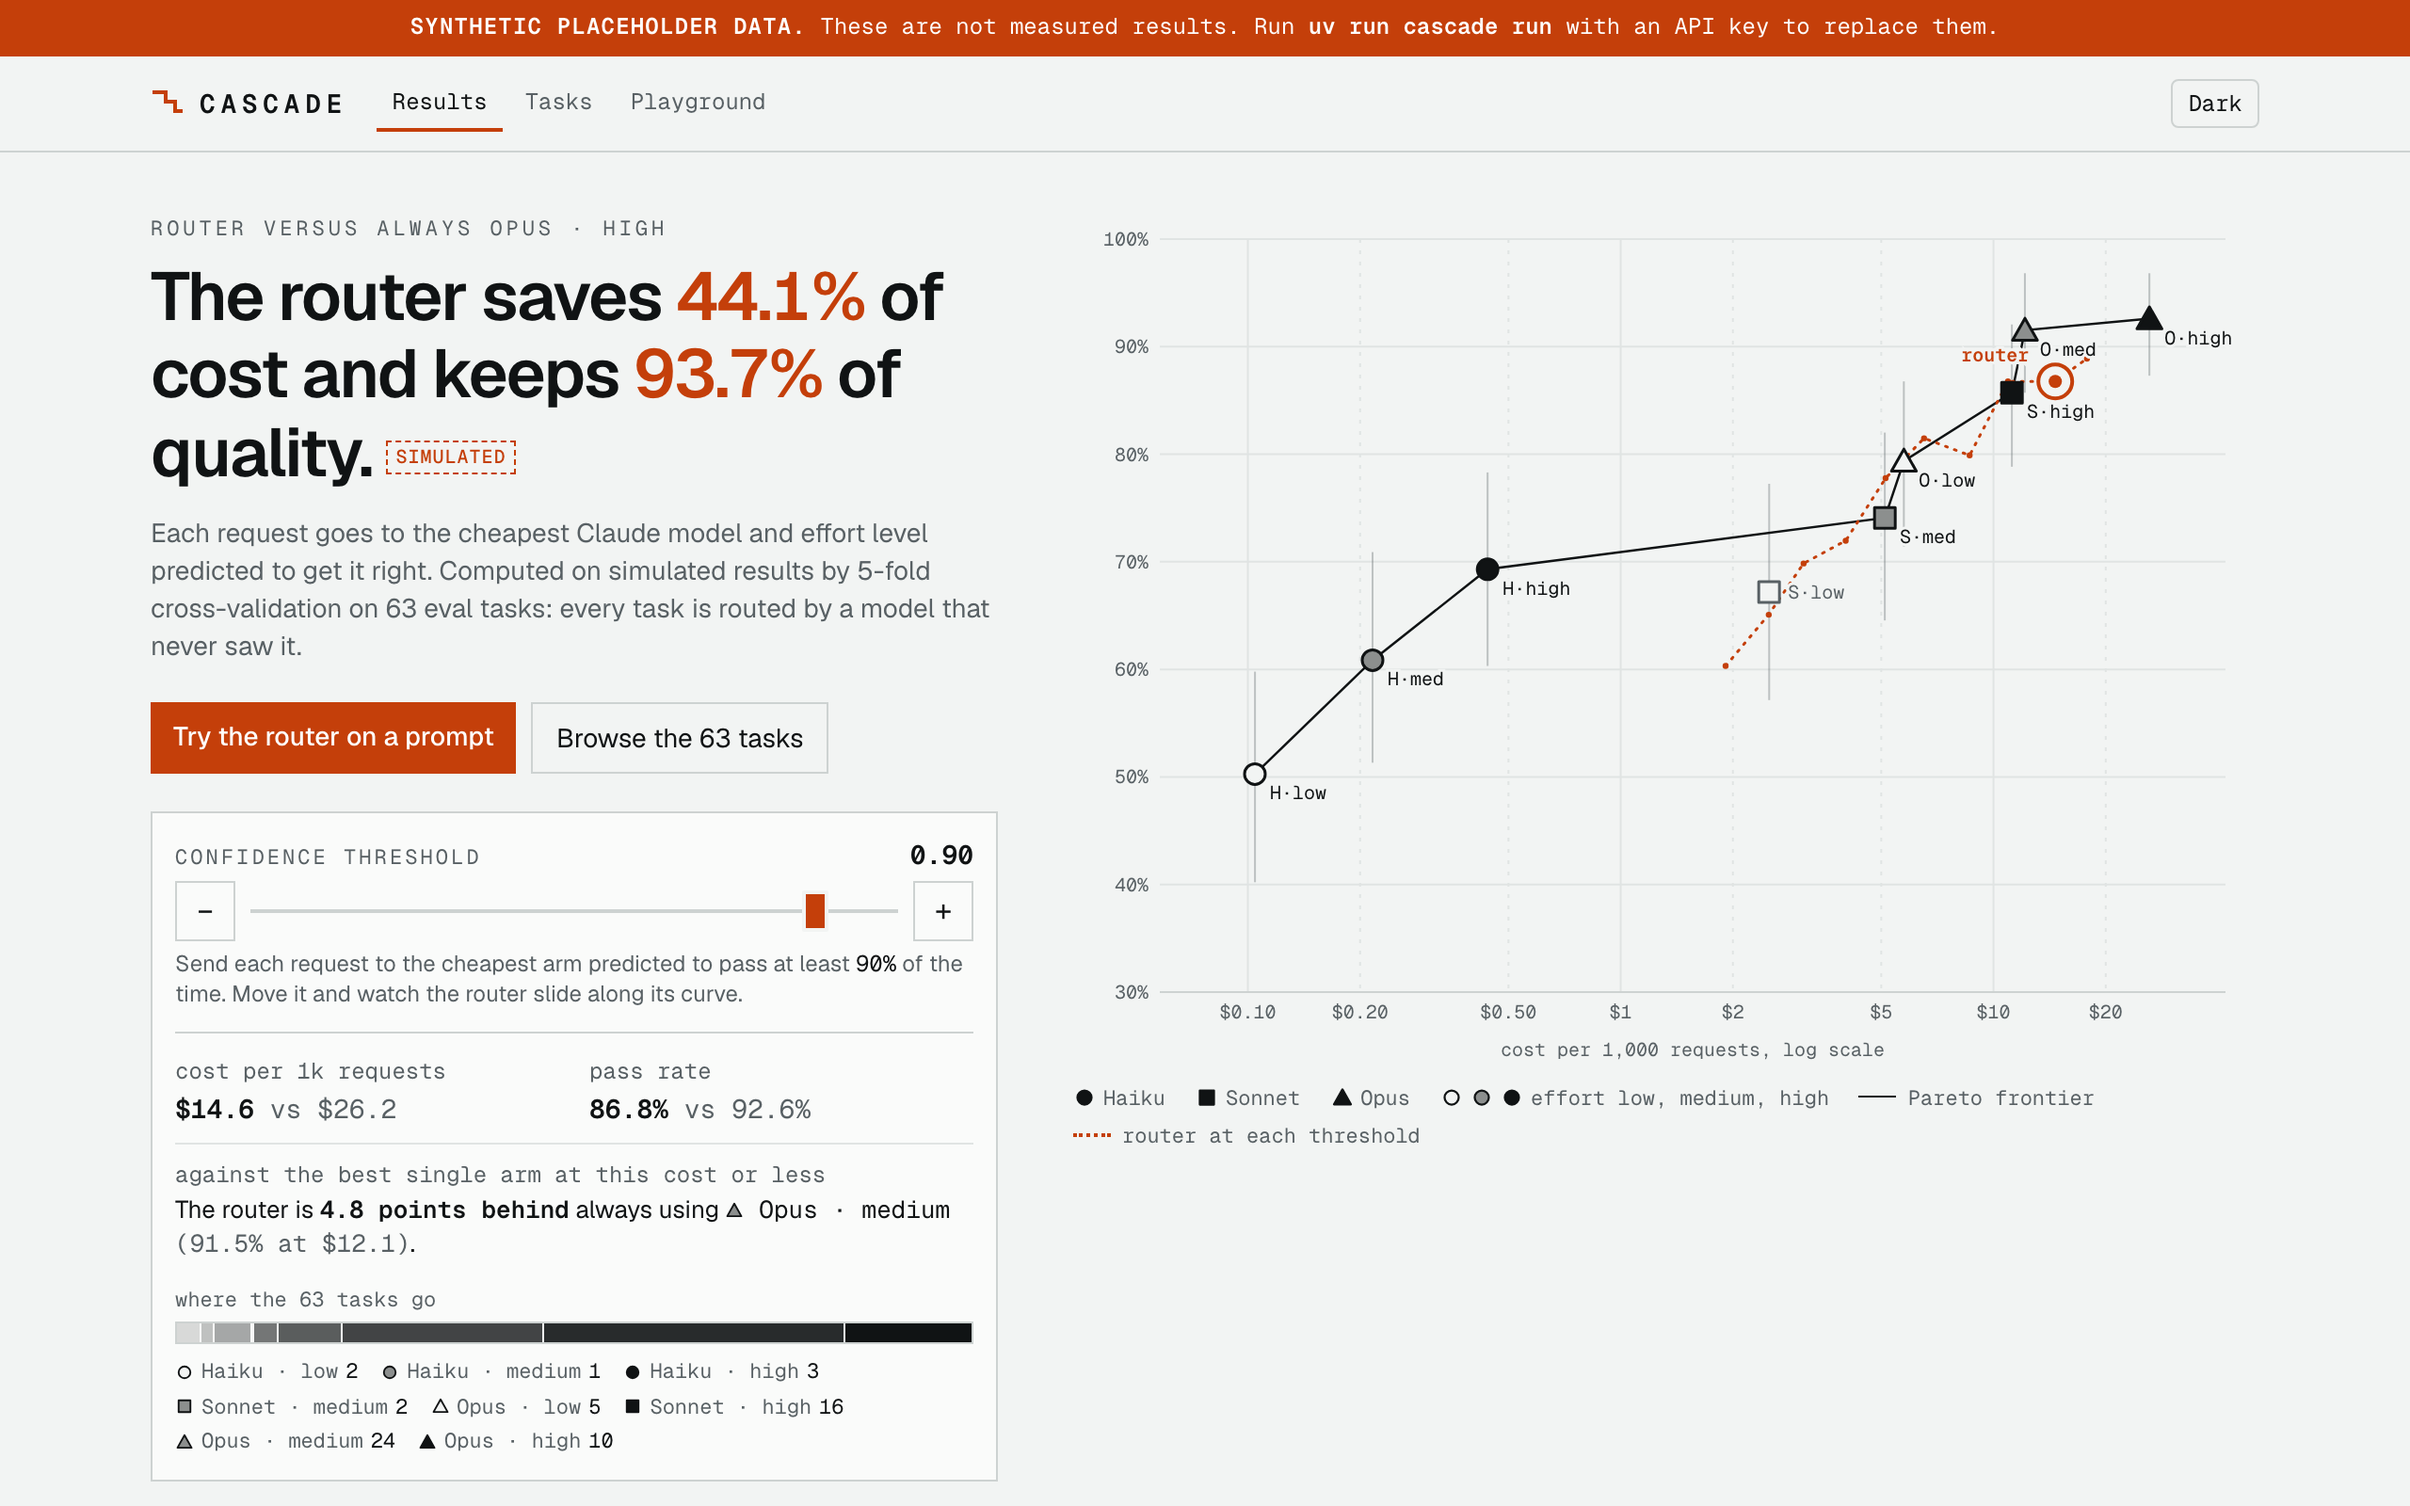
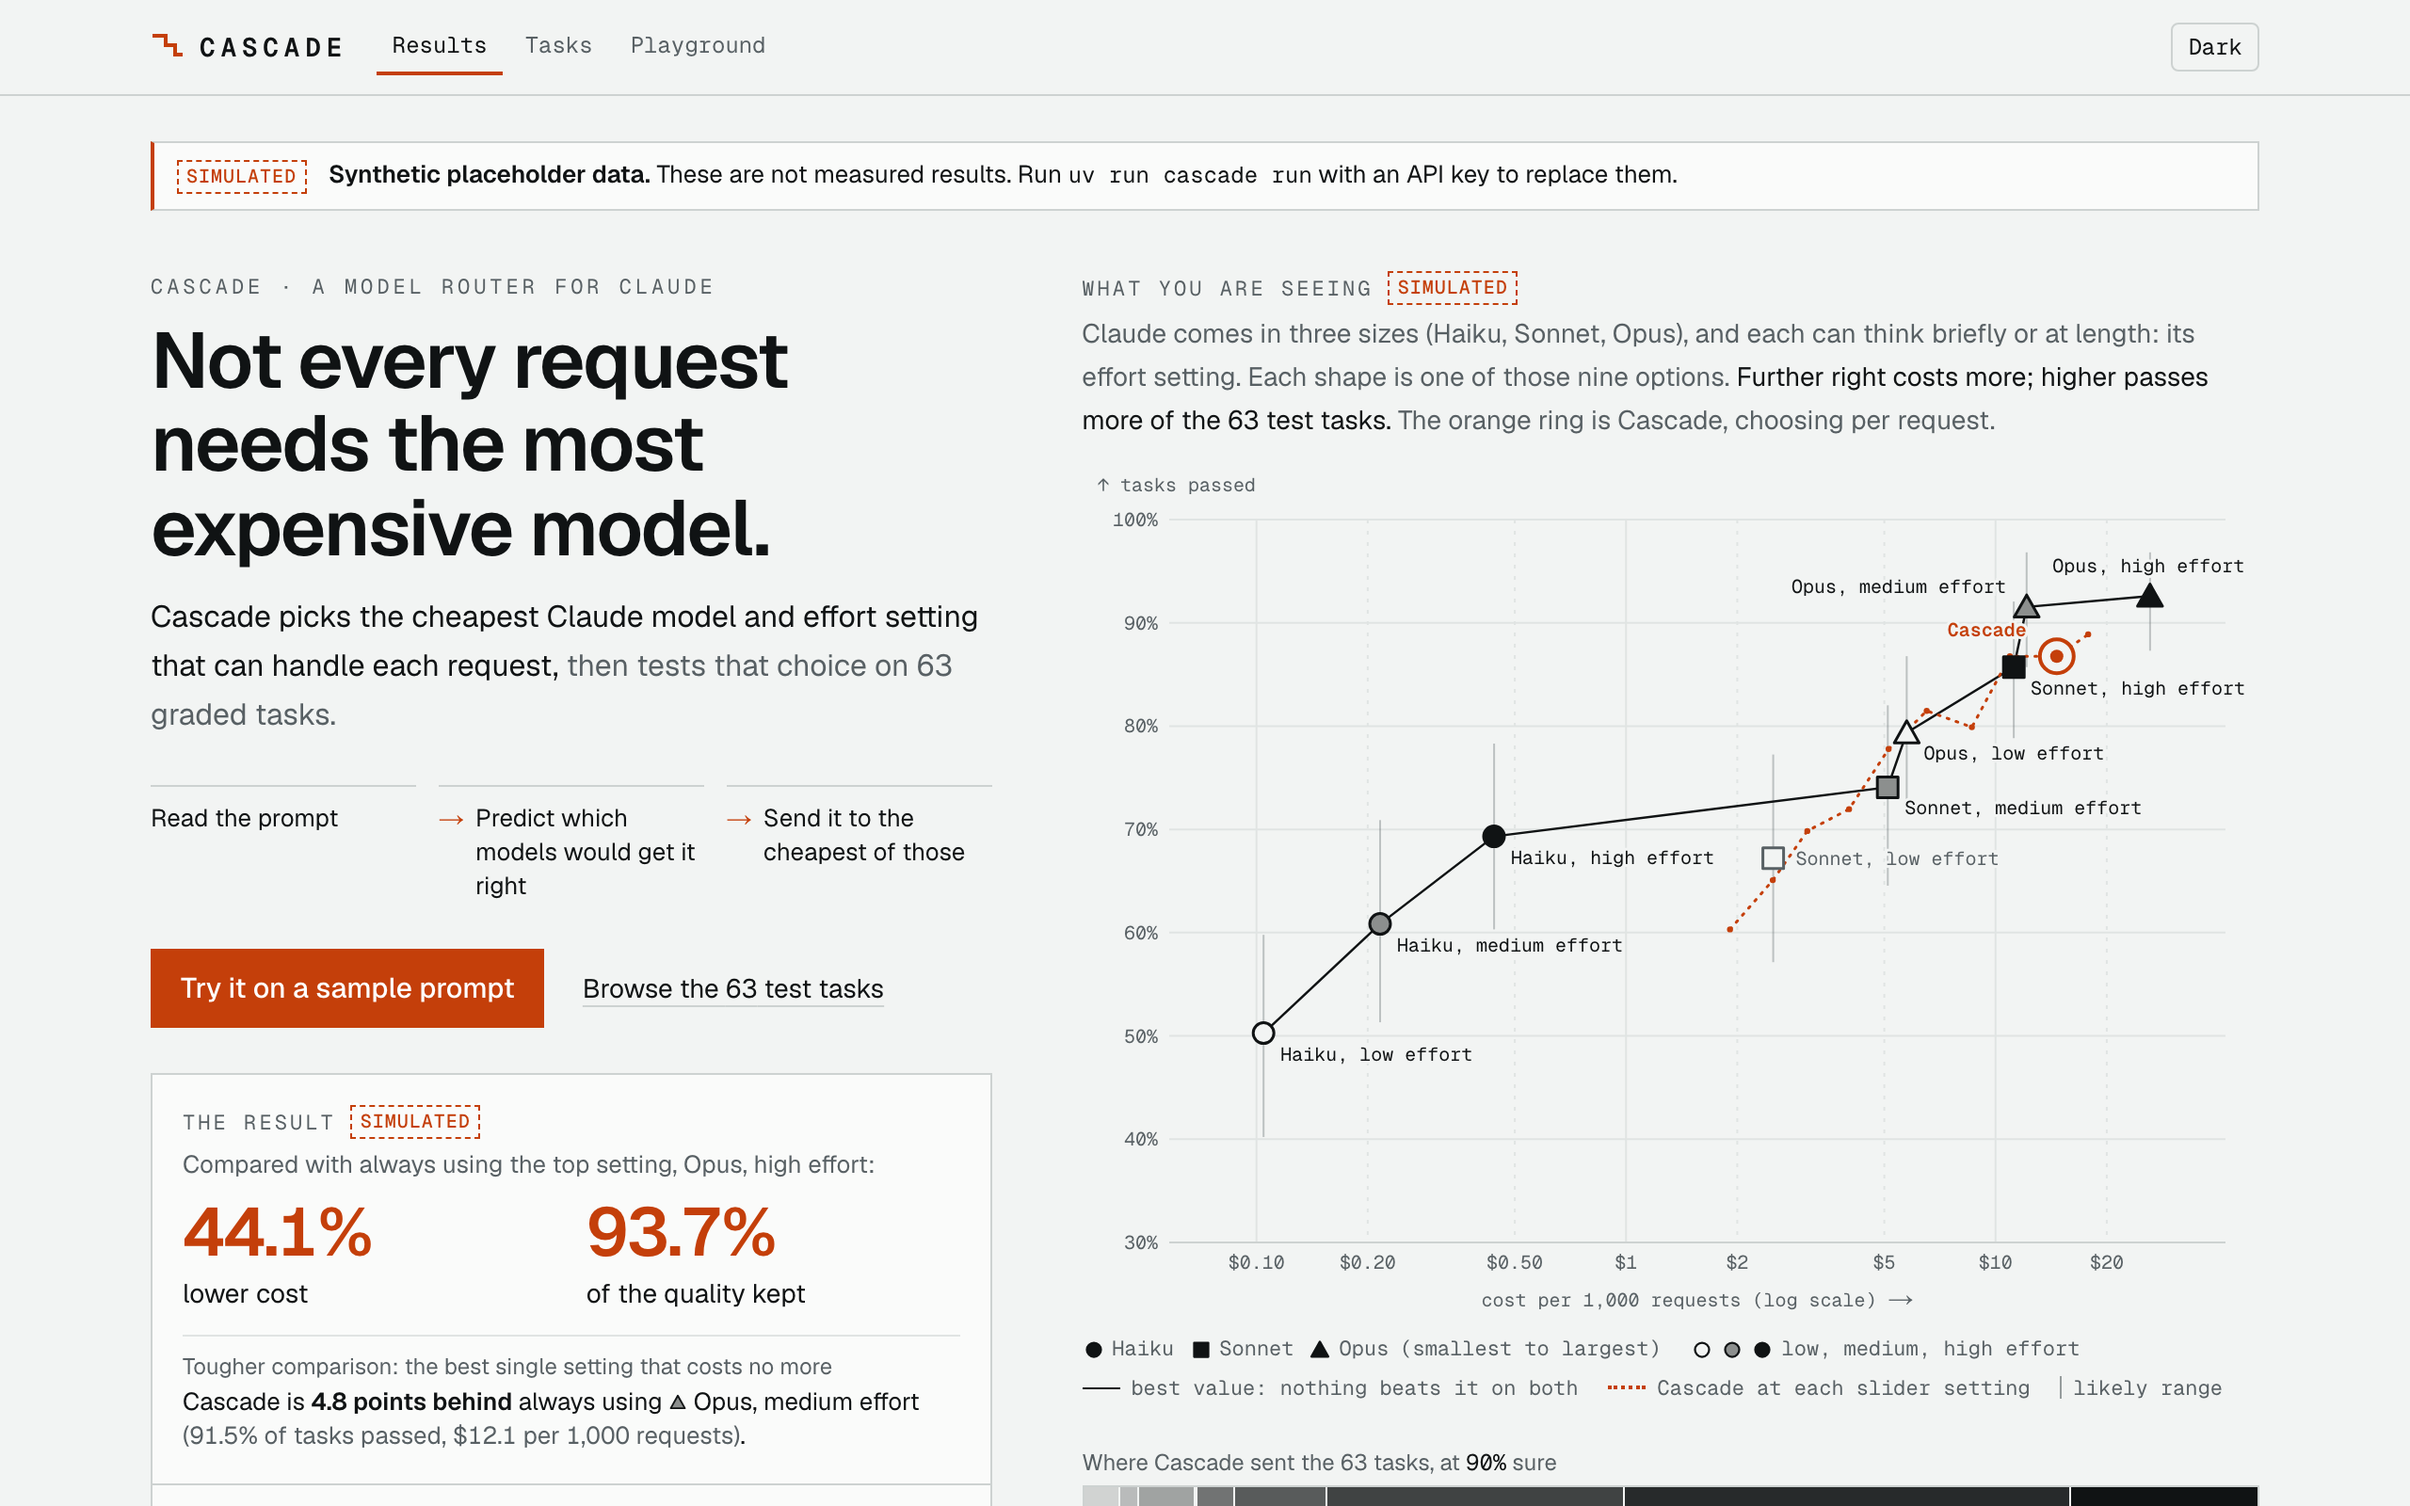
docs: plain-English README top, no dead demo links, retaken screenshots
Add a one-line pitch, a captioned hero, and a "What it does" section a
recruiter can follow; replace the live-demo badge and links (nothing is
deployed) with a "coming soon" badge pointing at Run locally. The demo
GIF is recorded at 1280x1000 so the slider is on screen without the page
scrolling, and ends on the one-click sample.

diff --git a/README.md b/README.md
@@ -1,29 +1,47 @@
 # Cascade
 
-> Route every request to the cheapest Claude model and effort level that can handle it, and prove it with evals.
+Not every request needs the most expensive AI model. Cascade picks the cheapest Claude model and effort setting that can handle each request, and tests that choice on 63 graded tasks.
 
 [![CI](https://github.com/davezagin-max/cascade/actions/workflows/ci.yml/badge.svg)](https://github.com/davezagin-max/cascade/actions/workflows/ci.yml)
 [![License: MIT](https://img.shields.io/badge/license-MIT-blue.svg)](LICENSE)
-[![Live demo](https://img.shields.io/badge/demo-live-brightgreen.svg)](https://cascade.vercel.app)
+[![Live demo: coming soon](https://img.shields.io/badge/live%20demo-coming%20soon-lightgrey.svg)](#run-locally)
 
-![Cascade dashboard: the router headline, the threshold control, and the quality-versus-cost Pareto chart](docs/hero.png)
+![Cascade's first screen: the headline, a one-click demo button, the result against always using the top model, and a chart placing every Claude model and effort setting by cost and tasks passed](docs/hero.png)
+
+*The first screen. Each shape on the chart is one Claude model at one effort setting: further right costs more, higher passes more tasks. The orange ring is Cascade, and the slider on the left moves it. The numbers are simulated and labelled as such (see below).*
+
+## What it does
+
+- **Picks a model for each request.** Claude comes in three sizes (Haiku, Sonnet, Opus), and each can think briefly or at length (its effort setting). Cascade reads a prompt and sends it to the cheapest option predicted to get it right, so easy requests stop paying for the biggest model.
+- **Explains every choice.** The playground shows which model it picked, how likely each option was to succeed, and which clues in the prompt pushed the decision. The choice is plain arithmetic that runs in your browser.
+- **Tests itself.** 63 hand-written tasks (classifying, pulling data out of text, math, code, writing) are graded automatically, and the dashboard compares Cascade with simply always using one model, including the best single model it could afford instead.
+- **Is honest about its data.** No paid run has been made yet, so the dashboard's numbers come from a clearly labelled simulator. One command replaces them with a real run.
 
 > **Synthetic placeholder data. These are not measured results. Run `uv run cascade run` with an API key to replace them.**
-> No real eval run exists in this commit. Every number in the screenshots comes from a labelled, deterministic simulator, and the app says so on every page.
+> In plain words: no real test run exists in this commit. Every number in the screenshots comes from a labelled, deterministic simulator, and the app tags each one "simulated".
 
-## Try it in 10 seconds
+## Try it
 
-**[Open the live demo](https://cascade.vercel.app)**: no key, no sign-up. Drag the confidence threshold and watch the router slide along its cost and quality curve. Then open the Playground and click "Solve a probability problem" to see a routing decision explained feature by feature.
+The live demo is coming soon. Here is the one-click tour: the slider trades cost for quality, then **Try it on a sample prompt** sends a sample support ticket through Cascade, shows which model it picks and why, and plays the answer.
 
-Demo data in this commit is hand-written sample output; `pnpm record` replaces it with real runs of whichever Claude model the router picks. The routing decision itself is never canned: it is computed in your browser for any text you type. Add your own Anthropic key in the app to get any prompt answered live.
+![A short tour: moving the slider, then one click routes a sample prompt and plays its answer](docs/demo.gif)
 
-![A short tour: moving the threshold, then routing and answering a preset in the playground](docs/demo.gif)
+To run it yourself with no key (details in [Run locally](#run-locally)):
+
+```bash
+pnpm install
+pnpm dev        # then open http://localhost:3150
+```
+
+The playground's answers in this commit are hand-written examples; `pnpm record` replaces them with real runs of whichever Claude model Cascade picks. The model choice itself is never canned: it is computed in your browser for any text you type. Add your own Anthropic key in the app to get any prompt answered live.
 
 ## Why it's interesting
 
+For engineers. Vocabulary: an *arm* is one model at one effort setting (Opus at high effort, say; there are nine), the *threshold* is how sure the router must be before it picks a cheaper arm, and the *Pareto frontier* is the set of arms that no other arm beats on both cost and quality.
+
 - **The router has to beat a harder baseline than "always Opus".** Any cheaper arm saves money against Opus at high effort, so that headline is easy to win. Every threshold is also compared with the strongest single arm that costs no more than the router does there, and that sentence sits next to the headline. On the sample data the router loses that comparison at the default threshold, and the page says so instead of hiding it. The penalty on the router's weights is chosen by nested cross-validation, so when the prompt features carry no signal it shrinks toward "one arm for everything" instead of routing on noise.
 - **One router, two languages, bit-identical.** The router is trained in Python (numpy logistic regression) and served in TypeScript, in the API route and in the browser. Features are defined once in a JSON spec that both sides interpret. Every feature value is an integer count through one addition and one division, and routing compares logits against a precomputed threshold, so there is no `log` or `exp` on the serving path whose last bit could differ. 80 exported vectors (every task prompt plus emoji, CRLF, CJK and a 5,000-character string) are checked for exact equality by both test suites.
-- **Placeholder data that cannot pass for a measurement.** With no API key there is no real run, so `cascade simulate` writes one in exactly the real schema with `synthetic: true`. The banner, every "simulated" tag, and the words "measured" and "simulated" all follow that one flag, and a test renders the dashboard in both states. A full run was also made with a fake API client and exported into the repo to prove the same dashboard shows a real run with no code change, then reverted.
+- **Placeholder data that cannot pass for a measurement.** With no API key there is no real run, so `cascade simulate` writes one in exactly the real schema with `synthetic: true`. The notice, every "simulated" tag, and the words "measured" and "simulated" all follow that one flag, and a test renders the dashboard in both states. A full run was also made with a fake API client and exported into the repo to prove the same dashboard shows a real run with no code change, then reverted.
 
 ## Results
 
@@ -125,13 +143,13 @@ pnpm check                                    # lint, typecheck, unit tests, pro
 cd evals && uv run ruff check . && uv run mypy && uv run pytest -q
 ```
 
-222 tests pass: 94 in Vitest and 128 in pytest. Four more are live smoke tests that are skipped when no key is set.
+223 tests pass: 95 in Vitest and 128 in pytest. Four more are live smoke tests that are skipped when no key is set.
 
 - **Graders are tested against the suite itself.** For all 57 deterministic tasks the reference answer must score full marks and a hand-written plausible mistake must fail, which catches a wrong answer key, a bad hidden test, and a grader that is too lenient.
 - **Parity.** Both suites assert exact equality with the 80 exported router vectors.
 - **The runner, with a fake API client.** Batch results returned in reverse order, failed, expired and missing items, refusals, truncation, resume, the budget gate, and an interrupted run that must stop sending.
 - **Honesty.** The dashboard is rendered synthetic and real, and every fixture is checked against its own placeholder flag, so the tests keep passing once real data is recorded.
-- **Demo-mode smoke test** of the playground route, plus `pnpm interactions` and `pnpm overflow` (headless Chromium: Stop sends nothing further, no sideways scroll at 360 and 390 px).
+- **Demo-mode smoke test** of the playground route, plus `pnpm interactions` and `pnpm overflow` (headless Chromium: Stop sends nothing further, the main button plays a sample with one request, no sideways scroll at 360 and 390 px).
 
 CI runs the same checks plus a gitleaks secret scan on every push.
 
